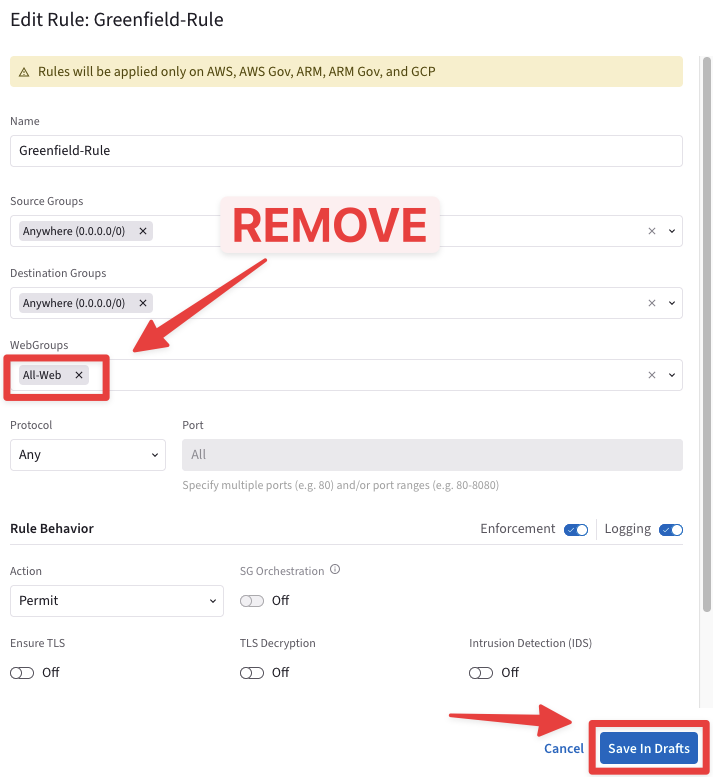
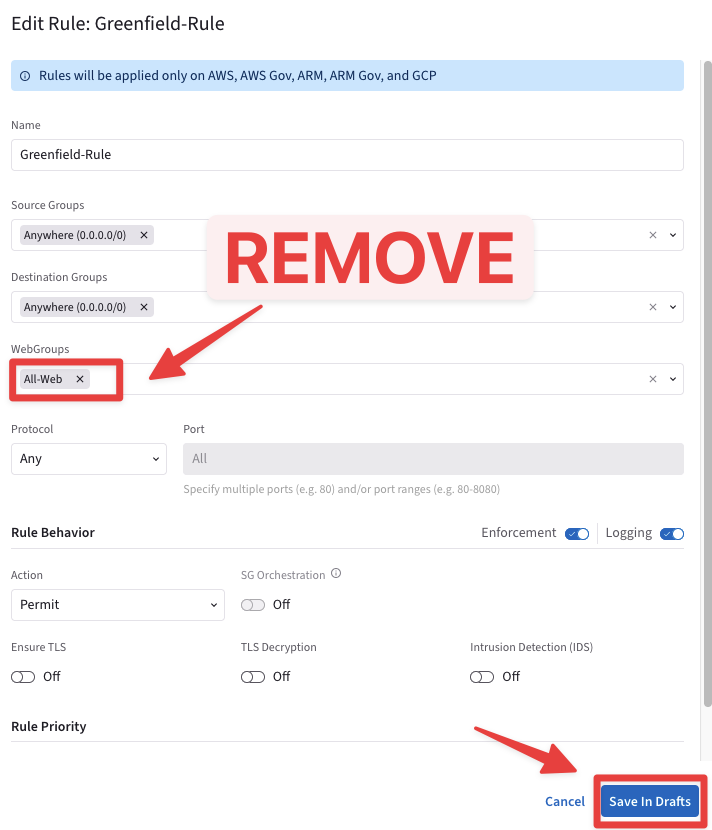
update for ops

diff --git a/ace_ops/docs/lab7.md b/ace_ops/docs/lab7.md
@@ -205,14 +205,34 @@ and
 sudo apt-get upgrade -y
 ```
 
+When you see this pop-up messages, just click on the **Enter** button on your keyboard!
+
+```{figure} images/lab7-enter.png
+---
+height: 150px
+align: center
+---
+Press Enter
+```
+
+```{figure} images/lab7-enter2.png
+---
+height: 150px
+align: center
+---
+Press Enter again
+```
+
 - Check the domains hit by the *apt-get* commands
 
 ```{tip}
-Go to **CoPilot > Security > Egress > Monitor** and select the *ace-azure-east-us-spoke1* on the `"VPC/VNets"` field.
+Go to **CoPilot > Security > Egress > FQDN Monitor (Legacy)** and select the *ace-azure-east-us-spoke**1*** on the `"VPC/VNets"` field.
 ```
 
 ```{warning}
-<ins>Identify all the required domains for launching successfully the *apt-get* commands, inspecting **solely** the whole list of logs.</ins>
+<ins>Identify all the necessary domains for successfully executing the apt-get commands by exclusively examining the entire list of logs. 
+
+Any other domains should be disregarded.</ins>
 ```
 
 The required domains are **five**!
@@ -238,7 +258,7 @@ Monitor
 - Detach the **_All-Web_** Webgroup from the Greenfield-Rule.
 
 ```{tip}
-Go to **CoPilot > Security > Distributed Cloud Firewall > Rules** and click on the pencil icon on the righ-hand side.
+Go to **CoPilot > Security > Distributed Cloud Firewall > Rules** and click on the pencil icon on the righ-hand side of thr Greenfield-Rul eentry.
 
 Clear the `WebGroups` field and then click on **Save In Drafts**. 
 
